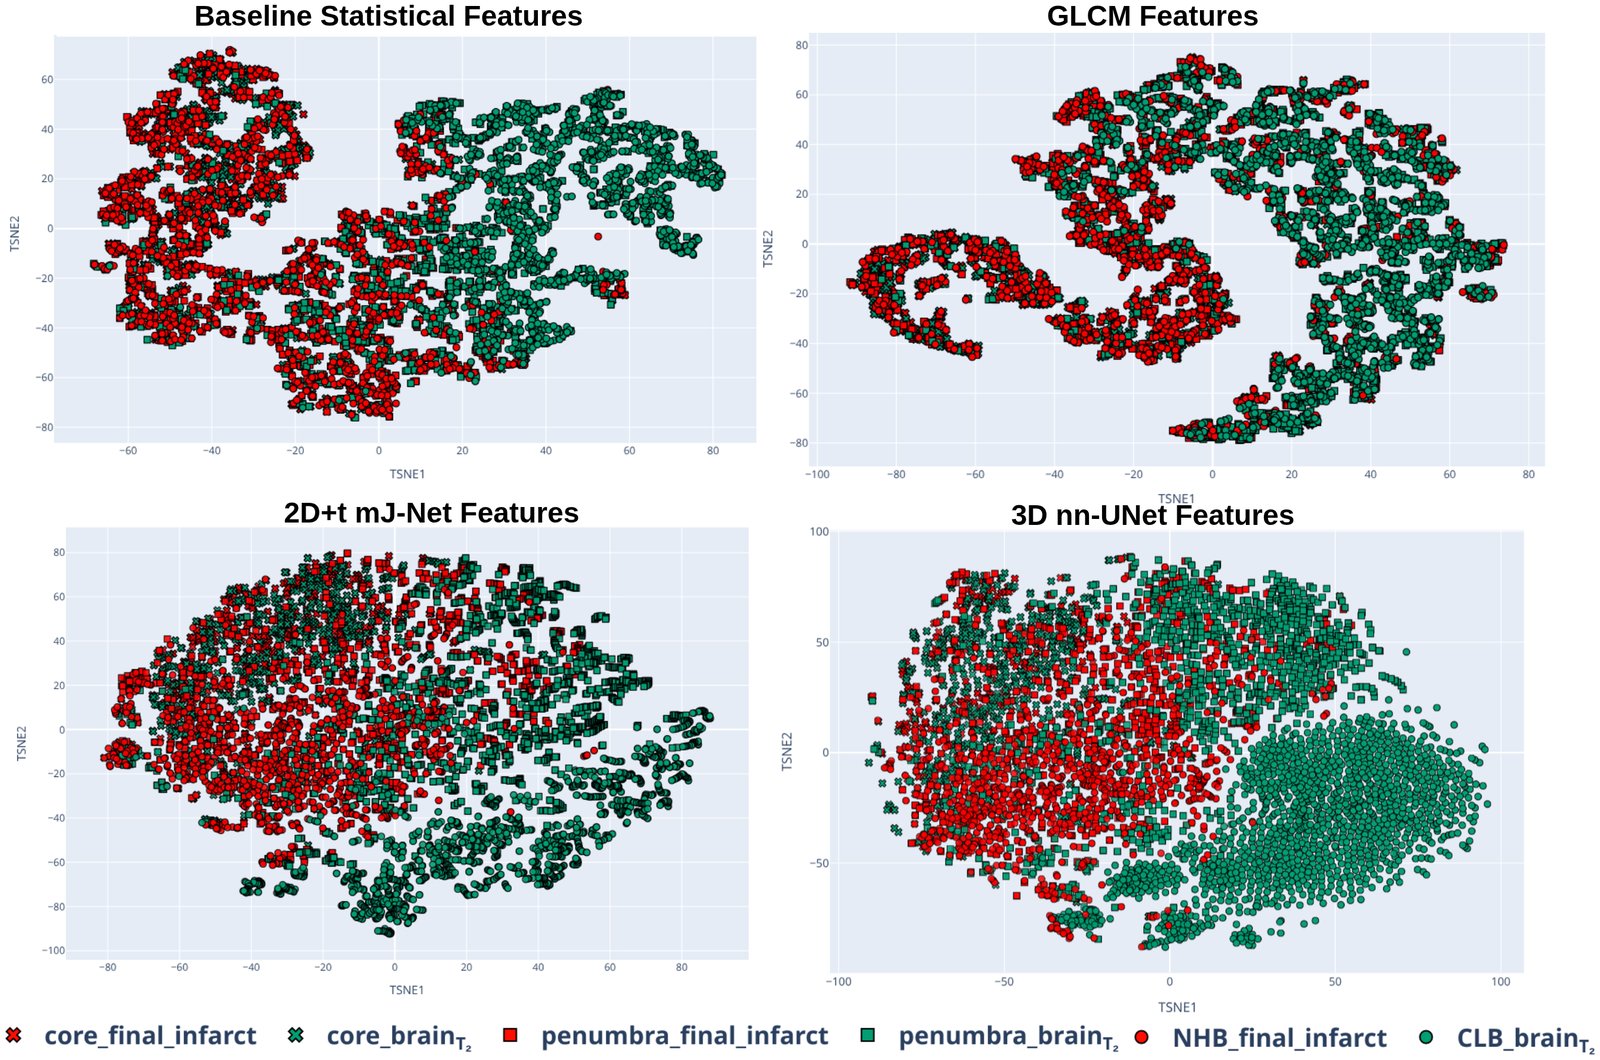
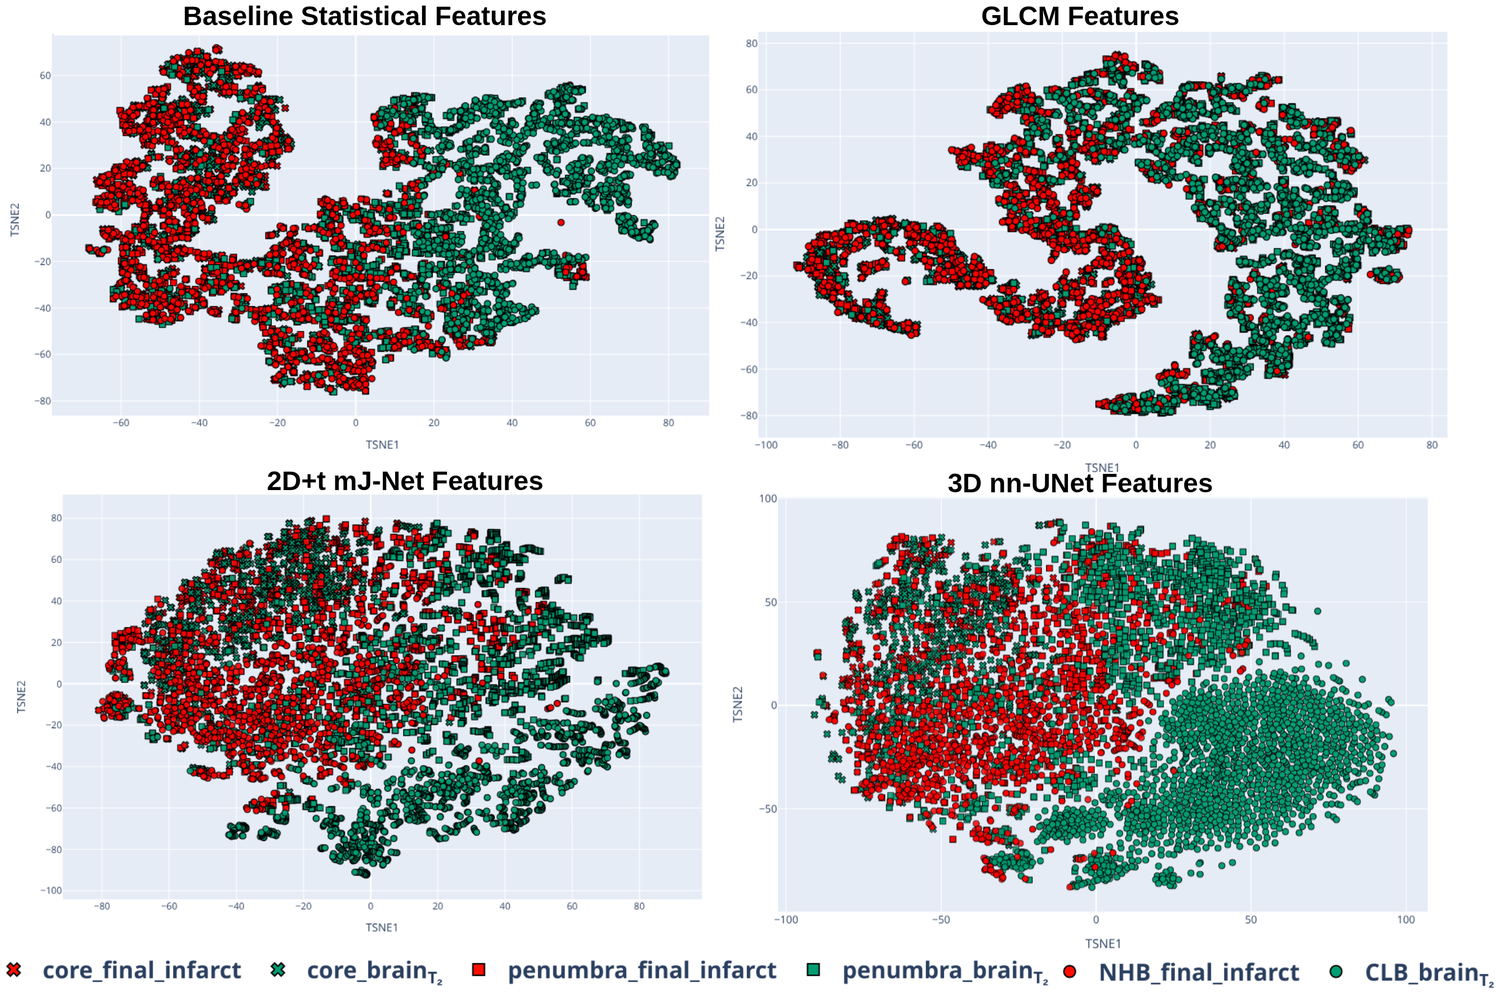
Camera-ready figures, white page, compact layout
Figures replaced with the camera-ready set from PhD works/BHI-2026:
framework.png, t-SNE_all_rebut.png, bubble_all_rebut.png and
stats_all_rebut.png become Figs. 1-4. They are RGBA with transparent
backgrounds, so they are composited onto white, trimmed and downsized the same
way as before. Fig. 1 is now the author's own combined layout rather than two
panels stacked here, and Fig. 4 carries the six-class palette.

Page is white again, with the alternating band at #f7f8f8 and the teal accent
kept. Text colours re-derived: body 10.7:1, muted 5.0:1, accent 5.6:1 on the
tinted band, all clearing AA.

Compact pass throughout: 16px base at 1.62 line-height, band padding 4.2rem to
2.9rem, header 5rem to 3.4rem, display title capped at 2.6rem, smaller buttons,
tighter section heads, table cells 0.5rem to 0.34rem, denser ROI class list.

Figure URLs bumped to ?v=4.

diff --git a/index.html b/index.html
@@ -13,80 +13,79 @@
 <link rel="preconnect" href="https://fonts.gstatic.com" crossorigin>
 <link rel="stylesheet" href="https://fonts.googleapis.com/css2?family=Inter:wght@400;500;600;700&family=Source+Serif+4:opsz,wght@8..60,400;8..60,600;8..60,700&display=swap">
 <style>
-  /* The figures are drawn on white and contain medical imagery that must not be
-     inverted, so the page itself is off-white rather than white: the figures
-     then read as white plates sitting on the page instead of bleeding into it.
-     That is also why there is no dark variant. */
+  /* The figures are drawn on white and contain medical imagery that must not
+     be inverted, so there is no dark variant; each figure is given an explicit
+     rim so it still reads as a plate on the white page. */
   :root{
-    --accent:#0c6e7b; --accent-soft:#0c6e7b14;
-    --ink:#14181a; --body:#333a3e; --muted:#626a6f;
-    --bg:#f1f4f4;        /* page, off-white */
-    --tint:#e6eaeb;      /* the deeper alternating band */
+    --accent:#0c6e7b; --accent-soft:#0c6e7b12;
+    --ink:#14181a; --body:#343b3f; --muted:#646c71;
+    --bg:#fff;           /* page */
+    --tint:#f7f8f8;      /* the alternating band */
     --card:#fff;         /* figures, code block */
-    --rule:#d2d9db; --hair:#dfe5e6;
-    --plate-edge:#ccd4d6; --plate-shadow:0 1px 2px rgba(16,24,32,.07), 0 6px 18px rgba(16,24,32,.06);
-    --measure:780px;
+    --rule:#e2e6e8; --hair:#eef1f2;
+    --plate-edge:#dde2e4; --plate-shadow:0 1px 2px rgba(16,24,32,.06);
+    --measure:760px;
   }
   *{box-sizing:border-box;}
   html{-webkit-text-size-adjust:100%;scroll-behavior:smooth;}
   body{margin:0;background:var(--bg);color:var(--body);
     font-family:Inter,-apple-system,BlinkMacSystemFont,"Segoe UI",Helvetica,Arial,sans-serif;
-    font-size:17px;line-height:1.72;}
+    font-size:16px;line-height:1.62;}
   a{color:var(--accent);text-decoration:underline;text-underline-offset:3px;text-decoration-thickness:1px;}
   a:hover{text-decoration-thickness:2px;}
 
-  .band{padding:4.2rem 0;}
+  .band{padding:2.9rem 0;}
   .band.tint{background:var(--tint);border-top:1px solid var(--rule);border-bottom:1px solid var(--rule);}
   .wrap{max-width:var(--measure);margin:0 auto;padding:0 20px;}
 
   /* header */
-  header.band{padding:5rem 0 2.6rem;text-align:center;}
-  .eyebrow{font-size:.74rem;font-weight:600;text-transform:uppercase;letter-spacing:.19em;
-    color:var(--accent);margin:0 0 1.4rem;}
+  header.band{padding:3.4rem 0 1.9rem;text-align:center;}
+  .eyebrow{font-size:.7rem;font-weight:600;text-transform:uppercase;letter-spacing:.18em;
+    color:var(--accent);margin:0 0 .9rem;}
   h1{font-family:"Source Serif 4",Georgia,serif;font-weight:600;
-    font-size:clamp(2.1rem,5.6vw,3.25rem);line-height:1.1;letter-spacing:-.018em;
-    color:var(--ink);margin:0 0 1.6rem;}
+    font-size:clamp(1.8rem,4.6vw,2.6rem);line-height:1.1;letter-spacing:-.018em;
+    color:var(--ink);margin:0 0 1.1rem;}
   .authors{margin:0 0 .4rem;font-size:1.04rem;font-weight:500;color:var(--ink);}
   .affil{margin:0;color:var(--muted);font-size:.93rem;}
-  .links{margin:2.1rem 0 0;display:flex;gap:.55rem;justify-content:center;flex-wrap:wrap;}
+  .links{margin:1.4rem 0 0;display:flex;gap:.45rem;justify-content:center;flex-wrap:wrap;}
   .links a,.links span{display:inline-flex;align-items:center;gap:.4rem;
-    padding:.52rem 1.2rem;border:1px solid var(--accent);border-radius:2px;
-    font-size:.92rem;font-weight:500;text-decoration:none;color:var(--accent);}
+    padding:.4rem .95rem;border:1px solid var(--accent);border-radius:2px;
+    font-size:.86rem;font-weight:500;text-decoration:none;color:var(--accent);}
   .links a:hover{background:var(--accent);color:#fff;}
   .links span{border-color:var(--rule);color:var(--muted);}
 
   /* section heads */
-  .sec-head{display:flex;align-items:baseline;gap:.85rem;margin:0 0 1.5rem;
-    padding-bottom:.75rem;border-bottom:1px solid var(--rule);
+  .sec-head{display:flex;align-items:baseline;gap:.7rem;margin:0 0 1rem;
+    padding-bottom:.5rem;border-bottom:1px solid var(--rule);
     box-shadow:0 1px 0 0 var(--accent);}
   .sec-head .num{font-size:.8rem;font-weight:700;letter-spacing:.1em;color:var(--accent);
     font-variant-numeric:tabular-nums;}
   .sec-head h2{margin:0;font-family:"Source Serif 4",Georgia,serif;font-weight:600;
-    font-size:1.5rem;letter-spacing:-.01em;color:var(--ink);}
-  p{margin:0 0 1.1rem;}
+    font-size:1.3rem;letter-spacing:-.01em;color:var(--ink);}
+  p{margin:0 0 .8rem;}
   section p:last-child{margin-bottom:0;}
   .abstract p{text-align:justify;hyphens:auto;}
-  .lede{font-size:1.05rem;}
-  .sub-head{margin:2.6rem 0 .6rem;font-size:.76rem;font-weight:600;text-transform:uppercase;
+  .lede{font-size:1rem;}
+  .sub-head{margin:1.8rem 0 .45rem;font-size:.76rem;font-weight:600;text-transform:uppercase;
     letter-spacing:.14em;color:var(--muted);}
 
   /* figures */
-  figure{margin:1.6rem 0 0;}
+  figure{margin:1.3rem 0 0;}
   figure img{display:block;width:100%;height:auto;background:var(--card);
     border:1px solid var(--plate-edge);border-radius:4px;box-shadow:var(--plate-shadow);}
-  figcaption{margin-top:.8rem;font-size:.86rem;line-height:1.6;color:var(--muted);}
+  figcaption{margin-top:.6rem;font-size:.81rem;line-height:1.5;color:var(--muted);}
   figcaption b{color:var(--ink);font-weight:600;}
-  .wide{width:min(1080px,calc(100vw - 40px));margin-left:calc(50% - min(540px,(100vw - 40px)/2));}
+  .wide{width:min(1040px,calc(100vw - 40px));margin-left:calc(50% - min(520px,(100vw - 40px)/2));}
   .hero-band{background:var(--tint);border-top:1px solid var(--rule);
-    border-bottom:1px solid var(--rule);padding:2.8rem 0 2.4rem;}
-  .hero{max-width:1080px;margin:0 auto;padding:0 20px;}
+    border-bottom:1px solid var(--rule);padding:1.9rem 0 1.6rem;}
+  .hero{max-width:1040px;margin:0 auto;padding:0 20px;}
   .hero figure{margin:0;}
 
   /* tables */
-  .tw{overflow-x:auto;margin:1.4rem 0 .7rem;-webkit-overflow-scrolling:touch;}
-  table.res{border-collapse:collapse;width:100%;font-size:.85rem;
+  .tw{overflow-x:auto;margin:1rem 0 .5rem;-webkit-overflow-scrolling:touch;}
+  table.res{border-collapse:collapse;width:100%;font-size:.8rem;
     font-variant-numeric:tabular-nums;background:transparent;}
-  table.res th,table.res td{padding:.5rem .6rem;text-align:center;border-bottom:1px solid var(--hair);}
+  table.res th,table.res td{padding:.34rem .5rem;text-align:center;border-bottom:1px solid var(--hair);}
   table.res thead th{font-weight:600;color:var(--ink);font-size:.8rem;vertical-align:bottom;
     border-bottom:2px solid var(--accent);}
   table.res thead th:first-child,table.res tbody th{text-align:left;}
@@ -106,10 +105,10 @@
   .tnote{font-size:.82rem;color:var(--muted);margin:0;}
 
   /* ROI classes */
-  .classes{display:grid;grid-template-columns:1fr 1fr;gap:0 2.2rem;margin:1.6rem 0 0;
+  .classes{display:grid;grid-template-columns:1fr 1fr;gap:0 2rem;margin:1.1rem 0 0;
     list-style:none;padding:0;}
-  .classes li{display:flex;align-items:baseline;gap:.7rem;padding:.7rem 0;
-    border-top:1px solid var(--hair);font-size:.91rem;}
+  .classes li{display:flex;align-items:baseline;gap:.6rem;padding:.45rem 0;
+    border-top:1px solid var(--hair);font-size:.86rem;}
   .classes .mk{flex:0 0 auto;width:9px;height:9px;border:1.5px solid var(--accent);border-radius:50%;}
   .classes .mk.fi{background:var(--accent);}
   .classes code{font-family:ui-monospace,SFMono-Regular,Menlo,Consolas,monospace;
@@ -119,7 +118,7 @@
   .legend .mk{display:inline-block;width:9px;height:9px;border:1.5px solid var(--accent);border-radius:50%;}
   .legend .mk.fi{background:var(--accent);}
 
-  pre{margin:0;padding:1.15rem 1.25rem;background:var(--card);border:1px solid var(--plate-edge);
+  pre{margin:0;padding:.9rem 1rem;background:var(--card);border:1px solid var(--plate-edge);
     border-radius:3px;overflow-x:auto;font-size:.81rem;line-height:1.62;
     font-family:ui-monospace,SFMono-Regular,Menlo,Consolas,monospace;color:var(--body);}
 
@@ -154,7 +153,7 @@
   <div class="hero-band">
   <div class="hero">
     <figure>
-      <img src="static/images/paper/fig1_framework.png?v=2"
+      <img src="static/images/paper/fig1_framework.png?v=4"
            alt="Framework overview: bi-temporal ROI construction from registered CTP and DWI, and the four feature extraction families.">
       <figcaption><b>Framework overview.</b> Top: bi-temporal ROI construction, intersecting registered
       admission CTP and follow-up DWI masks into six outcome-aware classes. Bottom: CTP feature
@@ -238,7 +237,7 @@
       automated rather than manual admission annotations.</p>
 
       <figure class="wide">
-        <img src="static/images/paper/fig2_tsne_all.png?v=3"
+        <img src="static/images/paper/fig2_tsne_all.png?v=4"
              alt="t-SNE projections of FE1-FE4 across all six bi-temporal ROI classes.">
         <figcaption><b>Feature spaces.</b> t-SNE projections of FE1&ndash;FE4 across all six
         bi-temporal ROI classes on the SUH cohort. Colors denote tissue fate and markers denote ROI
@@ -247,14 +246,14 @@
       </figure>
 
       <figure class="wide">
-        <img src="static/images/paper/fig4_tsne_mjnet.png?v=3"
+        <img src="static/images/paper/fig4_tsne_mjnet.png?v=4"
              alt="t-SNE projections of mJ-Net embeddings for each of the four region-pair tests.">
         <figcaption><b>Region-pair tests.</b> t-SNE projections of FE3 (mJ-Net) embeddings for each
         region-pair test on the SUH cohort. Colors denote the two ROI classes being compared.</figcaption>
       </figure>
 
       <figure class="wide">
-        <img src="static/images/paper/fig3_bubble.png?v=2"
+        <img src="static/images/paper/fig3_bubble.png?v=4"
              alt="Bubble plots of median baseline and GLCM feature values per bi-temporal ROI class.">
         <figcaption><b>Phenotypic gradient.</b> Median baseline (Std, Max, Skewness, Kurtosis) and GLCM
         (Imc1, Imc2, MCC, Correlation) feature values per bi-temporal ROI class on the SUH cohort, for

diff --git a/README.md b/README.md
@@ -52,16 +52,15 @@ static/images/favicon.ico     fallback for browsers without SVG icons
 static/images/apple-touch-icon.png
 ```
 
-One column, no scripts, and no external CSS or JS beyond the two webfonts.
-Inter for text, Source Serif 4 for the display title, and a single teal accent
-(`#0c6e7b`) on section numbers, links, buttons and the table rules; everything
-else is neutral grey.
+One column, compact, no scripts, and no external CSS or JS beyond the two
+webfonts. Inter for text, Source Serif 4 for the display title, and a single
+teal accent (`#0c6e7b`) on section numbers, links, buttons and the table rules;
+everything else is neutral grey.
 
-The page is **off-white** (`#f1f4f4`), with full-width bands alternating against
-a slightly deeper `#e6eaeb`. That is deliberate: the figures are drawn on white
-and contain medical imagery that must not be inverted, so an off-white page lets
-them read as white plates sitting on the page rather than bleeding into it. For
-the same reason there is no dark variant. Every text colour clears WCAG AA
+The page is white, with full-width bands alternating against `#f7f8f8`. The
+figures are drawn on white and contain medical imagery that must not be
+inverted, so there is no dark variant; each figure carries an explicit rim
+(`--plate-edge`) so it still reads as a plate. Every text colour clears WCAG AA
 (4.5:1) against both band colours.
 
 Figures sit on a tinted band and carry an explicit rim (`--plate-edge`) and a
@@ -87,14 +86,23 @@ python3 -m http.server 8000     # then open http://localhost:8000
 
 ### Figures
 
-They were re-extracted from the manuscript PDF and composited onto white; the
-originals had their alpha channel flattened onto
+The sources are RGBA with transparent backgrounds and are composited onto
+white, then trimmed and downsized. Earlier copies had their alpha channel flattened onto
 black, which left the panel titles and legends unreadable.
 
-All four figures come from the manuscript PDF. The t-SNE panels were briefly
-replaced by regenerated interactive Plotly versions; those were reverted,
-because t-SNE is stochastic and a re-run does not reproduce the published
-projections.
+All four figures are the camera-ready versions, composited from the RGBA
+sources in `PhD works/BHI-2026/`:
+
+| Page figure | Source |
+|---|---|
+| Fig. 1 framework | `framework.png` |
+| Fig. 2 t-SNE, FE1–FE4 | `t-SNE_all_rebut.png` |
+| Fig. 3 bubble plots | `bubble_all_rebut.png` |
+| Fig. 4 t-SNE, Tests 1–4 | `stats_all_rebut.png` |
+
+The t-SNE panels were briefly replaced by regenerated interactive Plotly
+versions; those were reverted, because t-SNE is stochastic and a re-run does
+not reproduce the published projections.
 
 The `<img>` URLs carry a `?v=` version. Bump it whenever you replace a figure
 in place, otherwise browsers keep serving the copy they already cached.
